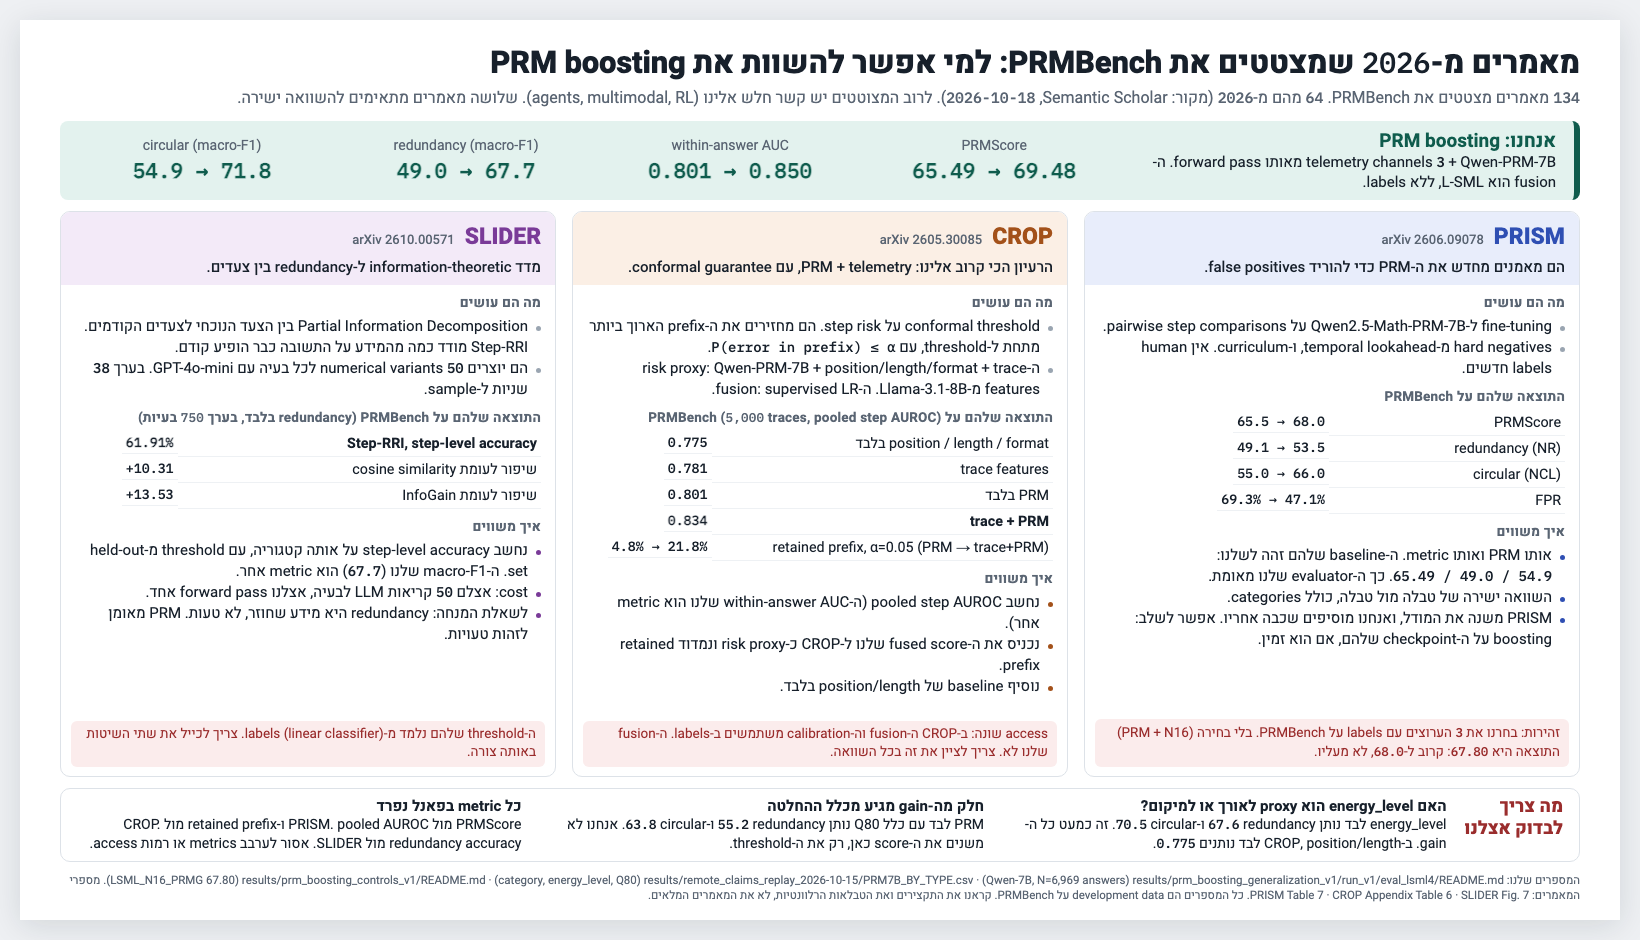
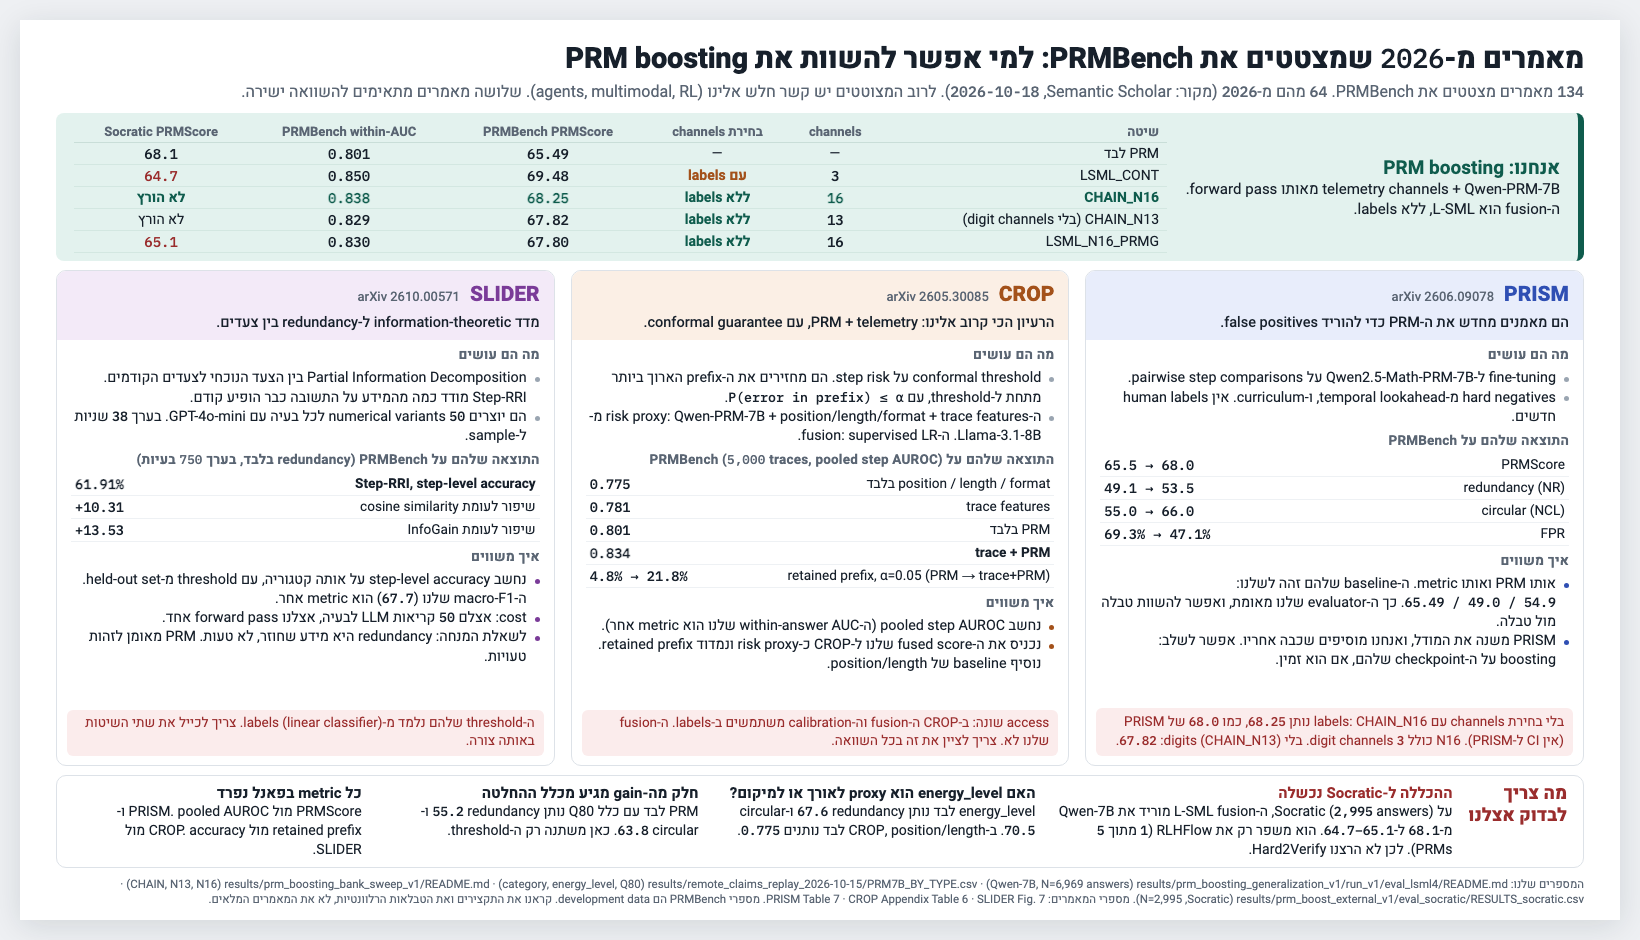
Slide: add label-free CHAIN_N16 (68.25) and the Socratic transfer result
The ours strip is now a table: PRM alone, label-selected LSML_CONT,
label-free CHAIN_N16 / CHAIN_N13 (digit-free) / LSML_N16_PRMG, with
PRMBench PRMScore, within-AUC and Socratic PRMScore. The PRISM note now
compares CHAIN_N16 68.25 with PRISM 68.0 and states that N16 has three
digit channels. A new check states that Socratic transfer failed
(Qwen-7B 68.1 -> 64.7-65.1; gain only on RLHFlow).

Changed region(s): [[0.0311, 0.0309, 0.964, 0.9564]]

diff --git a/docs/meetings/prmbench_citing_papers_2026-10-18/SLIDE_HE.html b/docs/meetings/prmbench_citing_papers_2026-10-18/SLIDE_HE.html
@@ -36,12 +36,12 @@
   .stage { width: 1600px; height: 900px; transform-origin: center center; flex: none; }
   .slide {
     width: 1600px; height: 900px; background: var(--slide);
-    padding: 26px 40px 16px; display: flex; flex-direction: column; gap: 11px;
+    padding: 22px 36px 12px; display: flex; flex-direction: column; gap: 9px;
     box-shadow: 0 6px 30px rgba(20,30,45,.12);
   }
   .ltr { direction: ltr; unicode-bidi: isolate; display: inline-block; white-space: nowrap; }
   .num { font-family: "IBM Plex Mono", ui-monospace, monospace; font-weight: 500; font-size: .93em; }
-  header h1 { font-size: 31px; font-weight: 800; letter-spacing: -.2px; line-height: 1.15; }
+  header h1 { font-size: 29px; font-weight: 800; letter-spacing: -.2px; line-height: 1.15; }
   header p { font-size: 16px; color: var(--muted); margin-top: 4px; }
 
   .ours {
@@ -51,6 +51,17 @@
   }
   .ours .lbl { font-size: 15px; line-height: 1.3; }
   .ours .lbl b { color: var(--ours); font-size: 19px; display: block; }
+  .ours { grid-template-columns: 1fr 2.9fr !important; }
+  table.ot { width: 100%; border-collapse: collapse; font-size: 14px; }
+  table.ot th { font-size: 13px; font-weight: 700; color: var(--muted); text-align: right; padding: 1px 8px; border-bottom: 1px solid #c9ded8; }
+  table.ot td { padding: 0 8px; border-bottom: 1px solid #d3e7e1; }
+  table.ot tr.hl td { font-weight: 700; color: var(--ours); }
+  table.ot td.good { color: var(--ours); font-weight: 600; }
+  table.ot td.bad { color: var(--crop); font-weight: 600; }
+  table.ot td.neg { color: var(--warn); font-weight: 700; }
+  table.ot td.n, table.ot th.n { direction: ltr; text-align: center; font-family: "IBM Plex Mono", ui-monospace, monospace; font-weight: 500; }
+  table.ot th:nth-child(n+2) { text-align: center; }
+  table.ot td:nth-child(n+2) { text-align: center; }
   .kpi { text-align: center; }
   .kpi .k { font-size: 14px; color: var(--muted); }
   .kpi .v { font-size: 21px; font-weight: 700; color: var(--ours); }
@@ -58,32 +69,34 @@
   .cols { display: grid; grid-template-columns: repeat(3, 1fr); gap: 16px; flex: 1; min-height: 0; }
   .card { border: 1px solid var(--line); border-radius: 10px; display: flex; flex-direction: column; overflow: hidden; }
   .card .top { padding: 8px 14px 7px; }
-  .card .top h2 { font-size: 23px; font-weight: 800; display: flex; align-items: baseline; gap: 10px; }
+  .card .top h2 { font-size: 21px; font-weight: 800; display: flex; align-items: baseline; gap: 10px; }
   .card .top h2 small { font-size: 13px; font-weight: 500; color: var(--muted); }
-  .card .top .one { font-size: 15px; margin-top: 2px; font-weight: 500; }
+  .card .top .one { font-size: 14.5px; margin-top: 2px; font-weight: 500; }
   .prism .top { background: var(--prism-soft); } .prism h2 { color: var(--prism); }
   .crop .top { background: var(--crop-soft); }   .crop h2 { color: var(--crop); }
   .slider .top { background: var(--slider-soft); } .slider h2 { color: var(--slider); }
 
-  .sec { padding: 8px 14px 0; }
+  .sec { padding: 5px 14px 0; }
   .sec h3 { font-size: 13.5px; font-weight: 700; color: var(--muted); text-transform: none; margin-bottom: 3px; letter-spacing: .2px; }
   .sec ul { list-style: none; }
-  .sec li { font-size: 15px; line-height: 1.4; padding-right: 13px; position: relative; }
+  .sec li { font-size: 14.3px; line-height: 1.34; padding-right: 13px; position: relative; }
   .sec li::before { content: ""; position: absolute; right: 0; top: .62em; width: 5px; height: 5px; border-radius: 50%; background: #9aa5b1; }
   .prism .cmp li::before { background: var(--prism); }
   .crop .cmp li::before { background: var(--crop); }
   .slider .cmp li::before { background: var(--slider); }
 
-  table.res { width: 100%; border-collapse: collapse; font-size: 14.3px; margin-top: 2px; }
-  table.res td { padding: 2px 4px; border-bottom: 1px solid #eef1f4; }
+  table.res { width: 100%; border-collapse: collapse; font-size: 13.6px; margin-top: 2px; }
+  table.res td { padding: 1px 4px; border-bottom: 1px solid #eef1f4; }
   table.res td:last-child { text-align: left; white-space: nowrap; }
+  table.res td.n { direction: ltr; font-family: "IBM Plex Mono", ui-monospace, monospace; font-weight: 500; }
   table.res tr.hl td { font-weight: 700; }
   .note { margin: auto 10px 9px; padding: 5px 9px; border-radius: 6px; background: var(--warn-soft); color: var(--warn); font-size: 13.5px; line-height: 1.33; }
 
-  .checks { border: 1px solid var(--line); border-radius: 10px; padding: 7px 16px; display: grid; grid-template-columns: auto 1fr 1fr 1fr; gap: 18px; align-items: start; }
+  .checks { border: 1px solid var(--line); border-radius: 10px; padding: 7px 16px; display: grid; grid-template-columns: auto 1.25fr 1fr 1fr 0.9fr; gap: 16px; align-items: start; }
   .checks .t { font-size: 18px; font-weight: 800; color: var(--warn); line-height: 1.2; }
   .checks div.c { font-size: 14px; line-height: 1.35; }
   .checks div.c b { display: block; font-size: 15px; }
+  .checks div.c.neg b { color: var(--warn); }
 
   footer { font-size: 11.5px; color: var(--muted); line-height: 1.35; }
   @media print {
@@ -104,11 +117,15 @@
   </header>
 
   <div class="ours">
-    <div class="lbl"><b>אנחנו: PRM boosting</b><span class="ltr">Qwen-PRM-7B</span> + <span class="ltr num">3</span> telemetry channels מאותו forward pass. ה-fusion הוא L-SML, ללא labels.</div>
-    <div class="kpi"><div class="k">PRMScore</div><div class="v ltr num">65.49 → 69.48</div></div>
-    <div class="kpi"><div class="k">within-answer AUC</div><div class="v ltr num">0.801 → 0.850</div></div>
-    <div class="kpi"><div class="k">redundancy (macro-F1)</div><div class="v ltr num">49.0 → 67.7</div></div>
-    <div class="kpi"><div class="k">circular (macro-F1)</div><div class="v ltr num">54.9 → 71.8</div></div>
+    <div class="lbl"><b>אנחנו: PRM boosting</b><span class="ltr">Qwen-PRM-7B</span> + telemetry channels מאותו forward pass. ה-fusion הוא L-SML, ללא labels.</div>
+    <table class="ot">
+      <tr><th>שיטה</th><th>channels</th><th>בחירת channels</th><th>PRMBench PRMScore</th><th>PRMBench within-AUC</th><th>Socratic PRMScore</th></tr>
+      <tr><td>PRM לבד</td><td>—</td><td>—</td><td class="n">65.49</td><td class="n">0.801</td><td class="n">68.1</td></tr>
+      <tr><td>LSML_CONT</td><td class="n">3</td><td class="bad">עם labels</td><td class="n">69.48</td><td class="n">0.850</td><td class="n neg">64.7</td></tr>
+      <tr class="hl"><td>CHAIN_N16</td><td class="n">16</td><td class="good">ללא labels</td><td class="n">68.25</td><td class="n">0.838</td><td>לא הורץ</td></tr>
+      <tr><td>CHAIN_N13 (בלי digit channels)</td><td class="n">13</td><td class="good">ללא labels</td><td class="n">67.82</td><td class="n">0.829</td><td>לא הורץ</td></tr>
+      <tr><td>LSML_N16_PRMG</td><td class="n">16</td><td class="good">ללא labels</td><td class="n">67.80</td><td class="n">0.830</td><td class="n neg">65.1</td></tr>
+    </table>
   </div>
 
   <div class="cols">
@@ -128,21 +145,20 @@
       <div class="sec">
         <h3>התוצאה שלהם על PRMBench</h3>
         <table class="res">
-          <tr><td>PRMScore</td><td class="ltr num">65.5 → 68.0</td></tr>
-          <tr><td>redundancy (NR)</td><td class="ltr num">49.1 → 53.5</td></tr>
-          <tr><td>circular (NCL)</td><td class="ltr num">55.0 → 66.0</td></tr>
-          <tr><td>FPR</td><td class="ltr num">69.3% → 47.1%</td></tr>
+          <tr><td>PRMScore</td><td class="n">65.5 → 68.0</td></tr>
+          <tr><td>redundancy (NR)</td><td class="n">49.1 → 53.5</td></tr>
+          <tr><td>circular (NCL)</td><td class="n">55.0 → 66.0</td></tr>
+          <tr><td>FPR</td><td class="n">69.3% → 47.1%</td></tr>
         </table>
       </div>
       <div class="sec cmp">
         <h3>איך משווים</h3>
         <ul>
-          <li>אותו PRM ואותו metric. ה-baseline שלהם זהה לשלנו: <span class="ltr num">65.49 / 49.0 / 54.9</span>. כך ה-evaluator שלנו מאומת.</li>
-          <li>השוואה ישירה של טבלה מול טבלה, כולל categories.</li>
-          <li>PRISM משנה את המודל, ואנחנו מוסיפים שכבה אחריו. אפשר לשלב: boosting על ה-checkpoint שלהם, אם הוא זמין.</li>
+          <li>אותו PRM ואותו metric. ה-baseline שלהם זהה לשלנו: <span class="ltr num">65.49 / 49.0 / 54.9</span>. כך ה-evaluator שלנו מאומת, ואפשר להשוות טבלה מול טבלה.</li>
+                    <li>PRISM משנה את המודל, ואנחנו מוסיפים שכבה אחריו. אפשר לשלב: boosting על ה-checkpoint שלהם, אם הוא זמין.</li>
         </ul>
       </div>
-      <div class="note">זהירות: בחרנו את <span class="ltr num">3</span> הערוצים עם labels על PRMBench. בלי בחירה (PRM + N16) התוצאה היא <span class="ltr num">67.80</span>: קרוב ל-<span class="ltr num">68.0</span>, לא מעליו.</div>
+      <div class="note">בלי בחירת channels עם labels: CHAIN_N16 נותן <span class="ltr num">68.25</span>, כמו <span class="ltr num">68.0</span> של PRISM (אין CI ל-PRISM). N16 כולל <span class="ltr num">3</span> digit channels. בלי digits (CHAIN_N13): <span class="ltr num">67.82</span>.</div>
     </article>
 
     <article class="card crop">
@@ -160,20 +176,19 @@
       <div class="sec">
         <h3>התוצאה שלהם על PRMBench (<span class="ltr num">5,000</span> traces, pooled step AUROC)</h3>
         <table class="res">
-          <tr><td>position / length / format בלבד</td><td class="ltr num">0.775</td></tr>
-          <tr><td>trace features</td><td class="ltr num">0.781</td></tr>
-          <tr><td>PRM בלבד</td><td class="ltr num">0.801</td></tr>
-          <tr class="hl"><td>trace + PRM</td><td class="ltr num">0.834</td></tr>
-          <tr><td>retained prefix, <span class="ltr">α=0.05</span> (PRM → trace+PRM)</td><td class="ltr num">4.8% → 21.8%</td></tr>
+          <tr><td>position / length / format בלבד</td><td class="n">0.775</td></tr>
+          <tr><td>trace features</td><td class="n">0.781</td></tr>
+          <tr><td>PRM בלבד</td><td class="n">0.801</td></tr>
+          <tr class="hl"><td>trace + PRM</td><td class="n">0.834</td></tr>
+          <tr><td>retained prefix, <span class="ltr">α=0.05</span> (PRM → trace+PRM)</td><td class="n">4.8% → 21.8%</td></tr>
         </table>
       </div>
       <div class="sec cmp">
         <h3>איך משווים</h3>
         <ul>
           <li>נחשב pooled step AUROC (ה-within-answer AUC שלנו הוא metric אחר).</li>
-          <li>נכניס את ה-fused score שלנו ל-CROP כ-risk proxy ונמדוד retained prefix.</li>
-          <li>נוסיף baseline של position/length בלבד.</li>
-        </ul>
+          <li>נכניס את ה-fused score שלנו ל-CROP כ-risk proxy ונמדוד retained prefix. נוסיף baseline של position/length.</li>
+                  </ul>
       </div>
       <div class="note">access שונה: ב-CROP ה-fusion וה-calibration משתמשים ב-labels. ה-fusion שלנו לא. צריך לציין את זה בכל השוואה.</div>
     </article>
@@ -193,9 +208,9 @@
       <div class="sec">
         <h3>התוצאה שלהם על PRMBench (redundancy בלבד, בערך <span class="ltr num">750</span> בעיות)</h3>
         <table class="res">
-          <tr class="hl"><td>Step-RRI, step-level accuracy</td><td class="ltr num">61.91%</td></tr>
-          <tr><td>שיפור לעומת cosine similarity</td><td class="ltr num">+10.31</td></tr>
-          <tr><td>שיפור לעומת InfoGain</td><td class="ltr num">+13.53</td></tr>
+          <tr class="hl"><td>Step-RRI, step-level accuracy</td><td class="n">61.91%</td></tr>
+          <tr><td>שיפור לעומת cosine similarity</td><td class="n">+10.31</td></tr>
+          <tr><td>שיפור לעומת InfoGain</td><td class="n">+13.53</td></tr>
         </table>
       </div>
       <div class="sec cmp">
@@ -213,16 +228,17 @@
 
   <div class="checks">
     <div class="t">מה צריך<br>לבדוק אצלנו</div>
-    <div class="c"><b>האם energy_level הוא proxy לאורך או למיקום?</b>energy_level לבד נותן redundancy <span class="ltr num">67.6</span> ו-circular <span class="ltr num">70.5</span>. זה כמעט כל ה-gain. ב-CROP, position/length לבד נותנים <span class="ltr num">0.775</span>.</div>
-    <div class="c"><b>חלק מה-gain מגיע מכלל ההחלטה</b>PRM לבד עם כלל Q80 נותן redundancy <span class="ltr num">55.2</span> ו-circular <span class="ltr num">63.8</span>. אנחנו לא משנים את ה-score כאן, רק את ה-threshold.</div>
-    <div class="c"><b>כל metric בפאנל נפרד</b>PRMScore מול PRISM. pooled AUROC ו-retained prefix מול CROP. redundancy accuracy מול SLIDER. אסור לערבב metrics או רמות access.</div>
+    <div class="c neg"><b>ההכללה ל-Socratic נכשלה</b>על Socratic (<span class="ltr num">2,995</span> answers), ה-L-SML fusion מוריד את Qwen-7B מ-<span class="ltr num">68.1</span> ל-<span class="ltr num">64.7–65.1</span>. הוא משפר רק את RLHFlow (<span class="ltr num">1</span> מתוך <span class="ltr num">5</span> PRMs). לכן לא הרצנו Hard2Verify.</div>
+    <div class="c"><b>האם energy_level הוא proxy לאורך או למיקום?</b>energy_level לבד נותן redundancy <span class="ltr num">67.6</span> ו-circular <span class="ltr num">70.5</span>. ב-CROP, position/length לבד נותנים <span class="ltr num">0.775</span>.</div>
+    <div class="c"><b>חלק מה-gain מגיע מכלל ההחלטה</b>PRM לבד עם כלל Q80 נותן redundancy <span class="ltr num">55.2</span> ו-circular <span class="ltr num">63.8</span>. כאן משתנה רק ה-threshold.</div>
+    <div class="c"><b>כל metric בפאנל נפרד</b>PRMScore מול PRISM. pooled AUROC ו-retained prefix מול CROP. accuracy מול SLIDER.</div>
   </div>
 
   <footer>
     המספרים שלנו: <span class="ltr">results/prm_boosting_generalization_v1/run_v1/eval_lsml4/README.md</span> (Qwen-7B, <span class="ltr">N=6,969</span> answers) ·
     <span class="ltr">results/remote_claims_replay_2026-10-15/PRM7B_BY_TYPE.csv</span> (category, energy_level, Q80) ·
-    <span class="ltr">results/prm_boosting_controls_v1/README.md</span> (<span class="ltr">LSML_N16_PRMG 67.80</span>).
-    מספרי המאמרים: PRISM Table 7 · CROP Appendix Table 6 · SLIDER Fig. 7. כל המספרים הם development data על PRMBench. קראנו את התקצירים ואת הטבלאות הרלוונטיות, לא את המאמרים המלאים.
+    <span class="ltr">results/prm_boosting_bank_sweep_v1/README.md</span> (CHAIN, N13, N16) · <span class="ltr">results/prm_boost_external_v1/eval_socratic/RESULTS_socratic.csv</span> (Socratic, <span class="ltr">N=2,995</span>).
+    מספרי המאמרים: PRISM Table 7 · CROP Appendix Table 6 · SLIDER Fig. 7. מספרי PRMBench הם development data. קראנו את התקצירים ואת הטבלאות הרלוונטיות, לא את המאמרים המלאים.
   </footer>
 
 </section>
